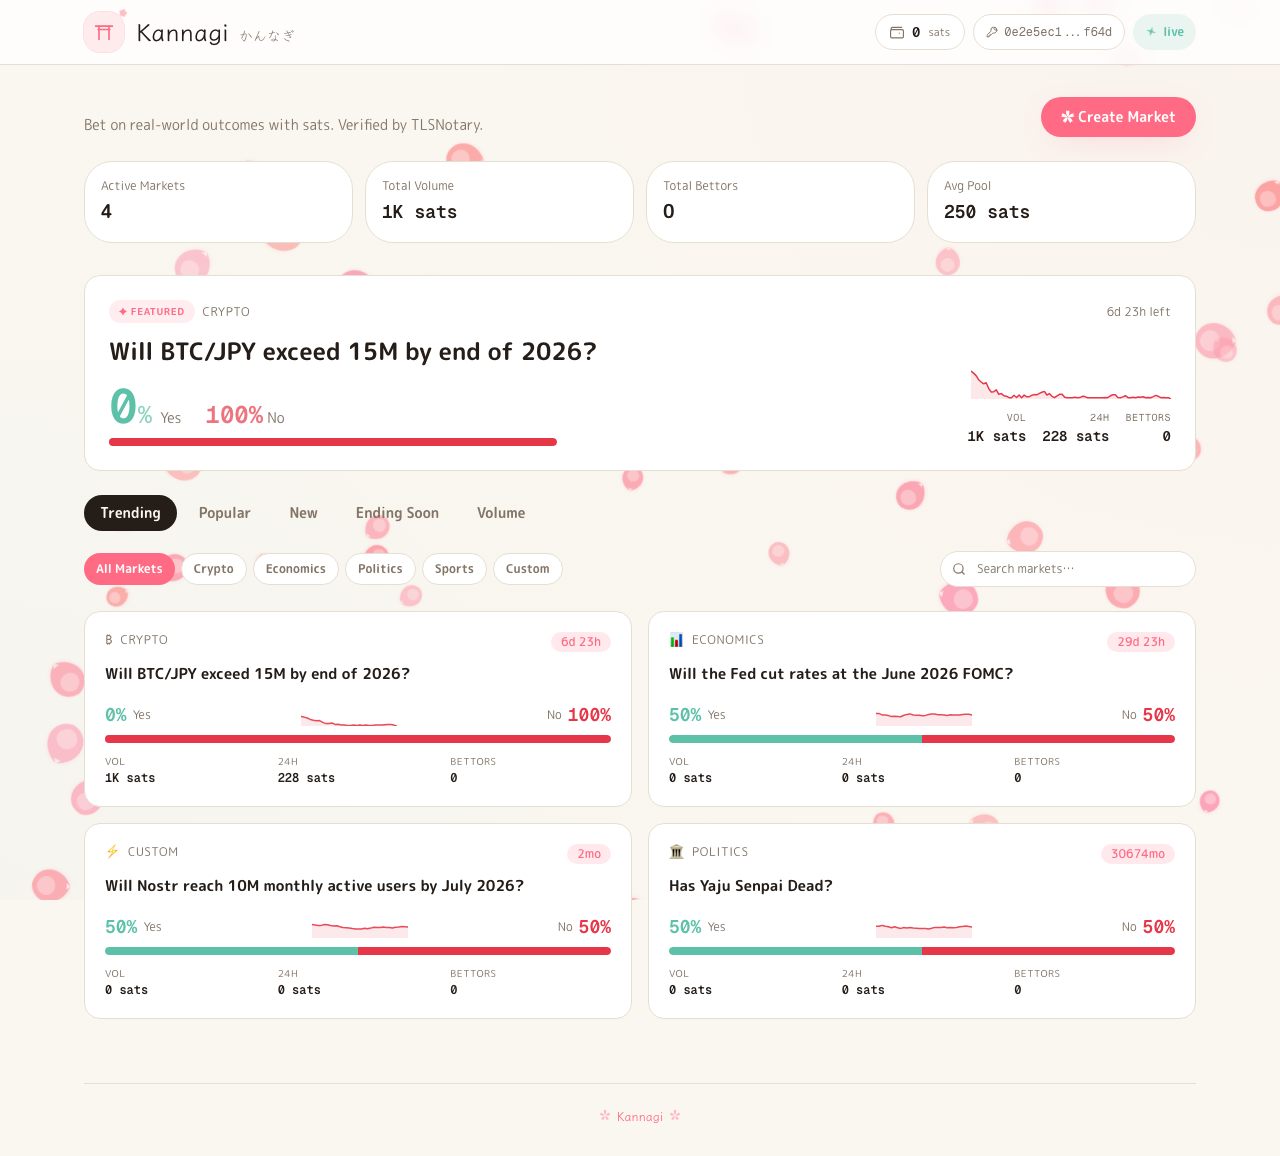
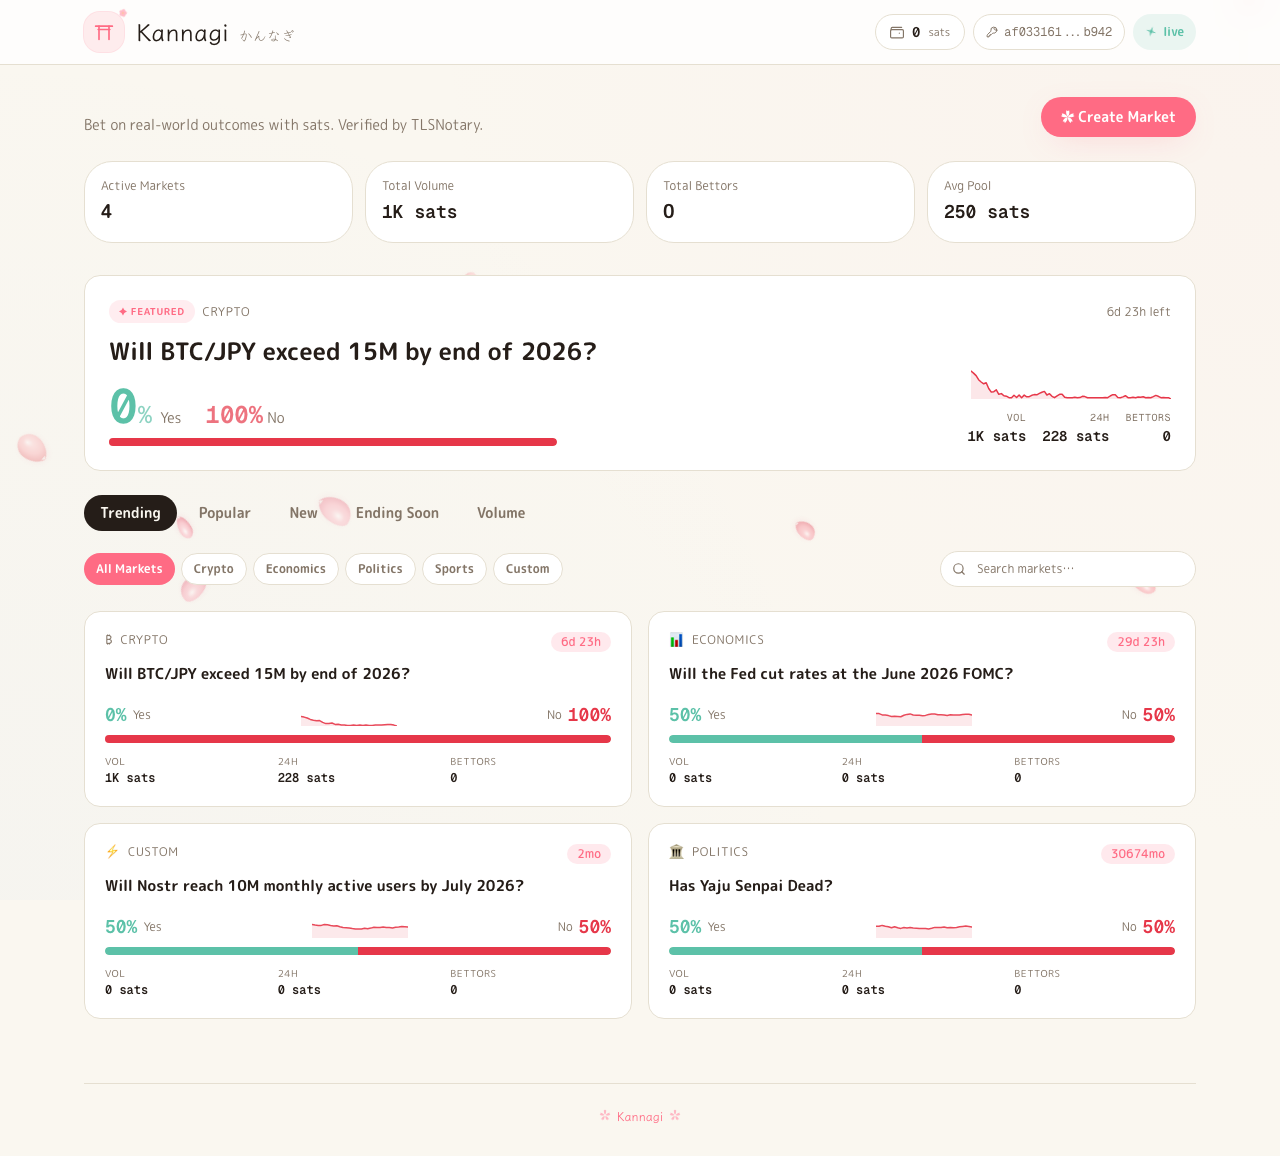
feat(prediction-market): 3D-shaded sakura, fewer petals, no visual noise
The previous flat-fill petals read as graphic shapes, not blossoms. Three
upgrades make the field feel illustrated / 3D without becoming louder:

1. Quality over quantity — drop count from 70 to 18. Slow descent
   (18–32s), gentle ±60–280° tumble, 28–84px sway. Always atmospheric.

2. Per-petal SVG with three layers:
   - Body fill: radial gradient (cx 38% / cy 34%) running
     +10% lightness → base hue → −18% lightness, simulating a curved
     surface lit from the upper-left.
   - Specular highlight: white radial-fade ellipse near the lit edge.
   - Rim stroke: thin desaturated line for definition (alpha 0.28).
   - drop-shadow filter for ambient occlusion against the page.

3. Three illustrated petal silhouettes — front bloom, side view, leaning
   variant — each with its own body and specular paths so they read as
   distinct shapes rather than rotated copies. Mirror flag adds left/right
   variance.

The colors are computed in JS (HSL with ±10 / ±18 lightness offsets) and
embedded directly into the gradient stops, so each petal carries its own
complexion. Unique gradient ids per petal avoid SVG def collisions.

diff --git a/example/prediction-market/ui/components/SakuraField.tsx b/example/prediction-market/ui/components/SakuraField.tsx
@@ -7,15 +7,20 @@ interface Petal {
   size: number;
   /** Hue around sakura pink. */
   hue: number;
-  opacity: number;
+  lightness: number;
+  /** Alpha multiplier 0–1 — entire petal stays atmospheric, never loud. */
+  alpha: number;
   /** Fall duration in seconds. */
   duration: number;
-  /** Negative animation-delay so each petal starts mid-fall on mount. */
   delay: number;
-  /** Horizontal sway amplitude in px (drift left/right while falling). */
+  /** Horizontal sway amplitude in px. */
   sway: number;
   /** Total rotation across one fall in degrees. */
   spin: number;
+  /** Which of 3 petal shapes to render. */
+  shape: 0 | 1 | 2;
+  /** Mirror horizontally — keeps asymmetric shapes from looking cloned. */
+  mirror: boolean;
 }
 
 function rng(seed: number): () => number {
@@ -33,39 +38,91 @@ function buildField(seed: number, count: number): Petal[] {
   const r = rng(seed);
   const petals: Petal[] = [];
   for (let i = 0; i < count; i++) {
-    const duration = 11 + r() * 14;       // 11–25s — slow, lazy fall
+    const duration = 18 + r() * 14; // 18–32s
     petals.push({
       x: r() * 100,
-      size: 22 + r() * 26,                // 22–48px (bigger, easier to see)
-      hue: 345 + r() * 18,                // 345–363 (sakura pink)
-      opacity: 0.55 + r() * 0.40,         // 55–95%
+      size: 22 + r() * 22,                   // 22–44px
+      hue: 348 + r() * 12,                   // 348–360 (sakura pink)
+      lightness: 76 + r() * 8,               // 76–84%
+      alpha: 0.32 + r() * 0.30,              // 32–62% — atmospheric
       duration,
-      delay: r() * duration,              // staggered so the field is full at t=0
-      sway: 40 + r() * 110,               // 40–150px lateral drift
-      spin: (r() < 0.5 ? -1 : 1) * (240 + r() * 540), // ±240–780° per fall
+      delay: r() * duration,
+      sway: 28 + r() * 56,                   // 28–84px
+      spin: (r() < 0.5 ? -1 : 1) * (60 + r() * 220), // ±60–280° (gentle tumble)
+      shape: Math.floor(r() * 3) as 0 | 1 | 2,
+      mirror: r() < 0.5,
     });
   }
   return petals;
 }
 
+/**
+ * Petal silhouettes — front view, side view, and an asymmetric "leaning"
+ * variant. Each shape includes a body outline and a smaller inner curve
+ * used as a specular highlight reference.
+ */
+const PETAL_SHAPES: Array<{ body: string; specular: string }> = [
+  {
+    // 1. Front bloom — symmetric oval with a soft V-notch tip.
+    body:
+      "M32 4 C 46 6 54 18 52 32 C 50 46 42 56 32 60 " +
+      "C 22 56 14 46 12 32 C 10 18 18 6 32 4 Z " +
+      "M27 55 L 32 60 L 37 55 Z",
+    specular:
+      "M28 12 C 34 12 40 16 40 24 C 40 30 36 36 30 36 " +
+      "C 25 36 22 30 22 24 C 22 16 24 12 28 12 Z",
+  },
+  {
+    // 2. Side / 3-quarter view — narrower, more elongated.
+    body:
+      "M32 5 C 41 6 47 16 46 28 C 45 42 41 54 32 60 " +
+      "C 23 54 19 42 18 28 C 17 16 23 6 32 5 Z " +
+      "M28 55 L 32 60 L 36 55 Z",
+    specular:
+      "M28 14 C 33 14 38 18 38 26 C 38 34 35 42 30 42 " +
+      "C 26 42 23 34 23 26 C 23 18 25 14 28 14 Z",
+  },
+  {
+    // 3. Leaning petal — asymmetric, caught mid-flutter.
+    body:
+      "M28 5 C 42 6 52 18 50 32 C 48 46 38 58 26 60 " +
+      "C 17 54 12 42 14 28 C 16 14 22 6 28 5 Z " +
+      "M22 55 L 26 60 L 31 56 Z",
+    specular:
+      "M26 14 C 36 16 42 22 40 30 C 38 38 32 44 26 44 " +
+      "C 21 42 19 34 21 26 C 22 18 24 14 26 14 Z",
+  },
+];
+
+function hsl(h: number, s: number, l: number, a = 1): string {
+  return `hsla(${h.toFixed(0)} ${s}% ${l.toFixed(0)}% / ${a})`;
+}
+
 interface SakuraFieldProps {
-  /** Number of petals (default 70). */
+  /** Default 18 — quiet enough to never become visual noise. */
   count?: number;
   /** Deterministic seed (default fixed). */
   seed?: number;
 }
 
 /**
- * Falling sakura — a fixed full-viewport layer of petals that descend from
- * above the screen, drift sideways with the wind, and rotate as they fall.
- * Pure CSS animation: each petal has its own duration / delay / sway / spin
- * baked in via custom properties, all driven by one shared keyframe so the
- * compositor handles the work.
+ * Falling sakura — illustrated, shaded petals descending slowly with sway
+ * and gentle tumble.
  *
- * Sits at z-index -10 behind everything (content gets `relative z-10`).
- * Honors `prefers-reduced-motion` by holding petals in place.
+ * Each petal renders as a 64×64 SVG with three layers:
+ *   1. A radial gradient body that simulates light falling on a curved
+ *      surface — base hue at the lit edge, +8% lightness inside, –18%
+ *      lightness at the shadow side.
+ *   2. A soft specular highlight (white radial-fade ellipse) near the
+ *      lit edge, suggesting a glossy petal surface.
+ *   3. A drop-shadow filter for ambient occlusion against the page.
+ *
+ * Three shape variants × hue × scale × mirror keep 18 petals from
+ * looking cloned. Per-petal motion is baked into CSS custom properties
+ * (--sway, --spin) plus animation-duration / -delay; one shared keyframe
+ * handles the descent, and the compositor does the work.
  */
-export function SakuraField({ count = 70, seed = 0xCAFE_F10 }: SakuraFieldProps) {
+export function SakuraField({ count = 18, seed = 0xCAFE_F10 }: SakuraFieldProps) {
   const petals = useMemo(() => buildField(seed, count), [seed, count]);
 
   return (
@@ -73,50 +130,69 @@ export function SakuraField({ count = 70, seed = 0xCAFE_F10 }: SakuraFieldProps)
       aria-hidden="true"
       className="pointer-events-none fixed inset-0 z-0 overflow-hidden"
     >
-      {petals.map((p, i) => (
-        <span
-          key={i}
-          className="sakura-petal absolute block"
-          style={{
-            left: `${p.x}vw`,
-            width: p.size,
-            height: p.size,
-            color: `hsl(${p.hue.toFixed(0)} 95% 80%)`,
-            opacity: p.opacity,
-            animationDuration: `${p.duration.toFixed(2)}s`,
-            animationDelay: `-${p.delay.toFixed(2)}s`,
-            ["--sway" as string]: `${p.sway.toFixed(0)}px`,
-            ["--spin" as string]: `${p.spin.toFixed(0)}deg`,
-            filter: "drop-shadow(0 1px 2px rgba(255, 110, 140, 0.18))",
-          }}
-        >
-          <svg
-            viewBox="0 0 32 32"
-            width="100%"
-            height="100%"
-            className="block"
+      {petals.map((p, i) => {
+        const shape = PETAL_SHAPES[p.shape];
+        const baseColor = hsl(p.hue, 88, p.lightness);
+        const lightColor = hsl(p.hue, 95, Math.min(96, p.lightness + 10));
+        const darkColor = hsl(p.hue, 70, Math.max(54, p.lightness - 18));
+        const fillId = `sakura-fill-${i}`;
+        const specId = `sakura-spec-${i}`;
+
+        return (
+          <span
+            key={i}
+            className="sakura-petal absolute block"
+            style={{
+              left: `${p.x}vw`,
+              width: p.size,
+              height: p.size,
+              opacity: p.alpha,
+              animationDuration: `${p.duration.toFixed(2)}s`,
+              animationDelay: `-${p.delay.toFixed(2)}s`,
+              ["--sway" as string]: `${p.sway.toFixed(0)}px`,
+              ["--spin" as string]: `${p.spin.toFixed(0)}deg`,
+              filter: "drop-shadow(0 2px 3px rgba(220, 90, 130, 0.18))",
+            }}
           >
-            {/* Sakura petal — rounded teardrop filling the viewBox, with a
-             * subtle V-notch at the tip. Inner darker outline gives volume. */}
-            <path
-              d="
-                M16 1.5
-                C 23 2 29 8 28 16
-                C 27.4 22 22.5 28 16 30
-                C 9.5 28 4.6 22 4 16
-                C 3 8 9 2 16 1.5 Z
-                M13.4 27.4 L 16 30 L 18.6 27.4 Z"
-              fill="currentColor"
-              fillRule="evenodd"
-            />
-            {/* Inner highlight — slightly lighter, gives a sense of volume. */}
-            <path
-              d="M16 5 C 20 5.5 24 9 23 14 C 22 17 19 19 16 19 C 13 19 10 17 9 14 C 8 9 12 5.5 16 5 Z"
-              fill="rgba(255, 255, 255, 0.32)"
-            />
-          </svg>
-        </span>
-      ))}
+            <svg
+              viewBox="0 0 64 64"
+              width="100%"
+              height="100%"
+              className="block"
+              style={p.mirror ? { transform: "scaleX(-1)" } : undefined}
+            >
+              <defs>
+                {/* Body — radial gradient: light center → base → dark rim.
+                  * cx/cy off-center to simulate side-lighting. */}
+                <radialGradient id={fillId} cx="38%" cy="34%" r="70%">
+                  <stop offset="0%" stopColor={lightColor} />
+                  <stop offset="55%" stopColor={baseColor} />
+                  <stop offset="100%" stopColor={darkColor} />
+                </radialGradient>
+                {/* Specular highlight — small bright radial-fade. */}
+                <radialGradient id={specId} cx="42%" cy="30%" r="40%">
+                  <stop offset="0%" stopColor="rgba(255,255,255,0.78)" />
+                  <stop offset="60%" stopColor="rgba(255,255,255,0.20)" />
+                  <stop offset="100%" stopColor="rgba(255,255,255,0)" />
+                </radialGradient>
+              </defs>
+
+              {/* Petal body — 3D-shaded fill */}
+              <path d={shape.body} fill={`url(#${fillId})`} fillRule="evenodd" />
+              {/* Specular highlight — sits inside the petal, suggests gloss */}
+              <path d={shape.specular} fill={`url(#${specId})`} />
+              {/* Subtle rim line — adds definition, very faint */}
+              <path
+                d={shape.body}
+                fill="none"
+                stroke={hsl(p.hue, 60, Math.max(48, p.lightness - 22), 0.28)}
+                strokeWidth={0.6}
+                fillRule="evenodd"
+              />
+            </svg>
+          </span>
+        );
+      })}
     </div>
   );
 }
